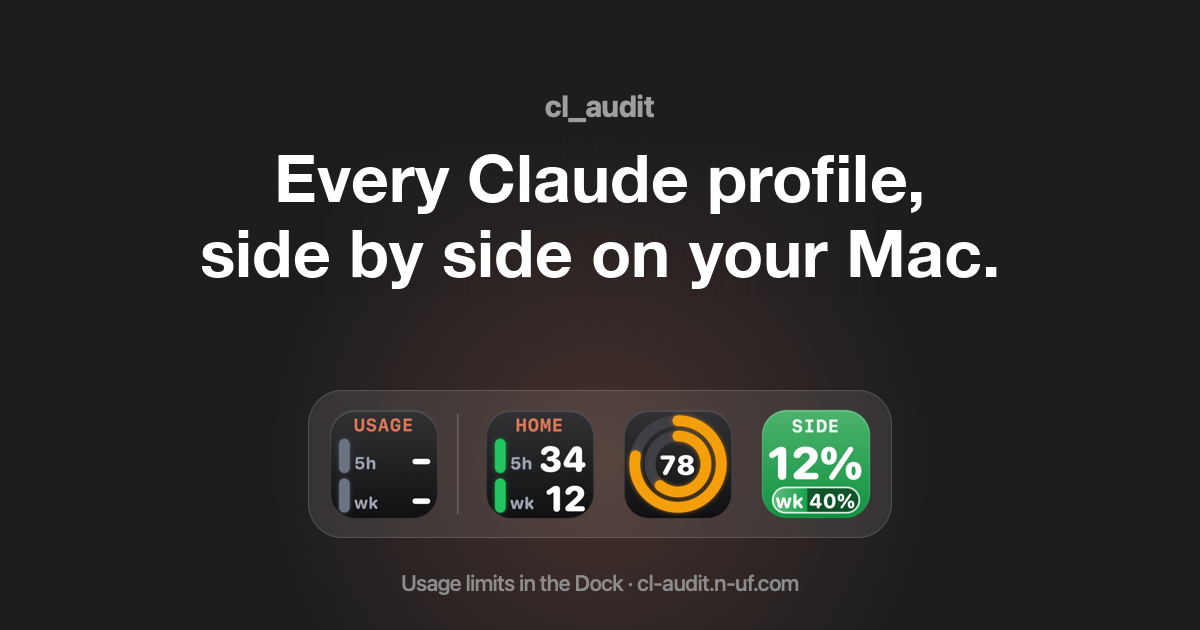
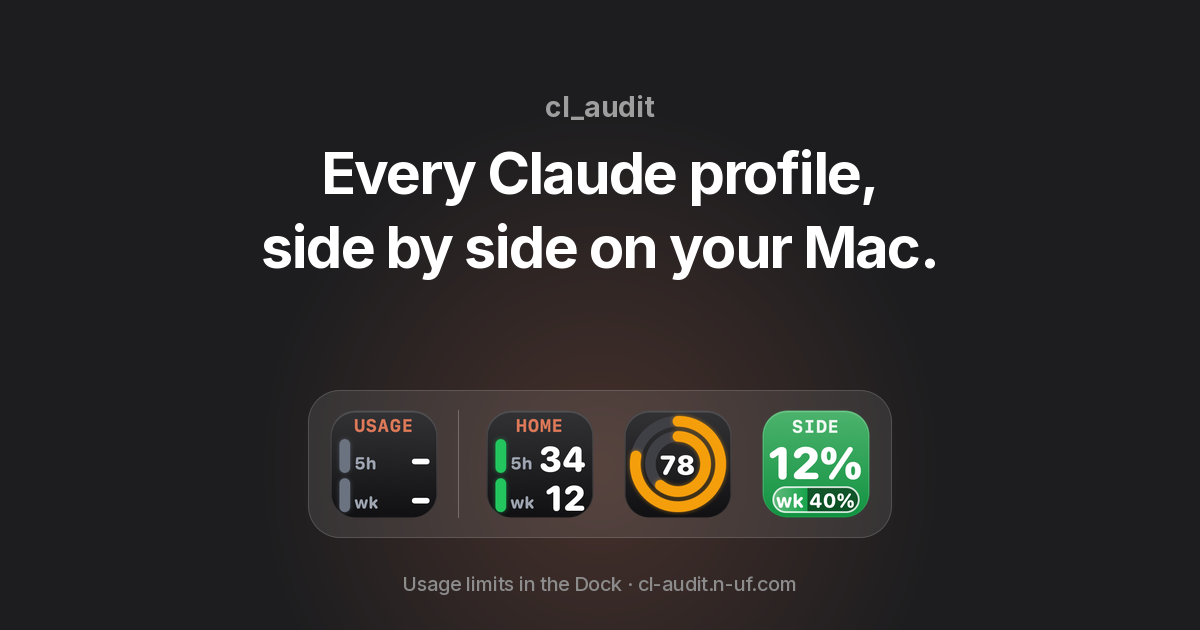
Open Graph image: back in Inter, with a script that renders it
The image had been redrawn in Helvetica Neue because Inter was not installed. It is now drawn in Inter
(weight axis at optical size 14) on the original layout; only the wording differs. scripts/render-og.py
draws it without a browser; the font is passed in and stays out of the repo.

diff --git a/scripts/render-og.py b/scripts/render-og.py
@@ -1,0 +1,69 @@
+#!/usr/bin/env python3
+"""Renders public/og.png (1200x630): Inter on the dark Dock scene, no browser needed.
+
+  python3 scripts/render-og.py --font /path/to/Inter-variable.woff2|ttf   (needs Pillow and numpy)
+
+The font is NOT in the repo. Use Inter's variable font from Google Fonts (family Inter, axes opsz + wght;
+https://fonts.google.com/specimen/Inter) or the rsms/inter GitHub release; the picture uses the weight axis
+at optical size 14, as a plain "Inter" web font does. The four icons are the site's own pictures
+(public/img/lane-0 is replaced by the app's no-data icon, rendered with UsageDock --render-preview).
+Edit HEAD1/HEAD2/SUB below to change the wording."""
+import argparse, os, subprocess, tempfile
+import numpy as np
+from PIL import Image, ImageDraw, ImageFont
+
+HEAD1, HEAD2 = "Every Claude profile,", "side by side on your Mac."
+SUB = "Usage limits in the Dock · cl-audit.n-uf.com"
+
+ap = argparse.ArgumentParser()
+ap.add_argument("--font", required=True)
+ap.add_argument("--app", default="/opt/projects/n-uf/cl_audit/build/UsageDock")
+ap.add_argument("--out", default=os.path.join(os.path.dirname(__file__), "..", "public", "og.png"))
+args = ap.parse_args()
+IMG = os.path.join(os.path.dirname(__file__), "..", "public", "img")
+W, H = 1200, 630
+
+def font(size, wght):
+    f = ImageFont.truetype(args.font, size, layout_engine=ImageFont.Layout.RAQM)
+    f.set_variation_by_axes([14, wght])
+    return f
+
+def text(d, s, f, cx, baseline, col, tracking):
+    total = f.getlength(s) + tracking * (len(s) - 1)
+    x0 = cx - total / 2
+    for i, ch in enumerate(s):
+        d.text((x0 + f.getlength(s[: i + 1]) - f.getlength(ch) + tracking * i, baseline), ch, font=f, fill=col, anchor="ls")
+
+def scene(icons):
+    yy, xx = np.mgrid[0:H, 0:W].astype(float) + 0.5
+    a = np.clip(1 - np.sqrt(((xx - 600) / 340) ** 2 + ((yy - 468) / 360) ** 2), 0, 1) * 0.22   # the warm glow
+    im = np.array([29, 29, 31], float)[None, None] * (1 - a[..., None]) + np.array([217, 119, 87], float)[None, None] * a[..., None]
+    S = 4
+    def rounded(x0, y0, x1, y1, r):
+        y, x = np.mgrid[0 : H * S, 0 : W * S].astype(float)
+        x, y = (x + 0.5) / S, (y + 0.5) / S
+        cx, cy = np.clip(x, x0 + r, x1 - r), np.clip(y, y0 + r, y1 - r)
+        m = ((x - cx) ** 2 + (y - cy) ** 2 <= r * r) & (x >= x0) & (x <= x1) & (y >= y0) & (y <= y1)
+        return m.reshape(H, S, W, S).mean(axis=(1, 3))
+    outer, inner = rounded(308, 390, 892, 538, 32), rounded(309, 391, 891, 537, 31)
+    white = np.array([255, 255, 255], float)[None, None]
+    im = im * (1 - 0.09 * outer[..., None]) + white * 0.09 * outer[..., None]      # the Dock's glass
+    ring = (outer - inner)[..., None]
+    im = im * (1 - 0.14 * ring) + white * 0.14 * ring                              # its 1 px edge
+    im[410:518, 458] = im[410:518, 458] * 0.75 + 255 * 0.25                        # the divider
+    out = Image.fromarray(np.clip(im + 0.5, 0, 255).astype("uint8")).convert("RGBA")
+    for path, x in icons:
+        out.alpha_composite(Image.open(path).convert("RGBA").resize((114, 114), Image.LANCZOS), (x, 407))
+    return out
+
+with tempfile.TemporaryDirectory() as tmp:
+    usage = os.path.join(tmp, "usage.png")
+    subprocess.run([args.app, "--render-preview", usage, "bars", "USAGE", "-", "-"], check=True)
+    im = scene([(usage, 327), (f"{IMG}/dock-home.png", 483), (f"{IMG}/dock-work.png", 621), (f"{IMG}/dock-side.png", 759)])
+d = ImageDraw.Draw(im)
+text(d, "cl_audit", font(28, 700), 600, 117, (158, 158, 158), 0.28)
+text(d, HEAD1, font(58, 700), 600, 194, (255, 255, 255), -1.74)
+text(d, HEAD2, font(58, 700), 600, 268, (255, 255, 255), -1.74)
+text(d, SUB, font(20, 500), 600, 591, (140, 140, 140), -0.42)
+im.convert("RGB").save(args.out, optimize=True)
+print("wrote", os.path.normpath(args.out))
